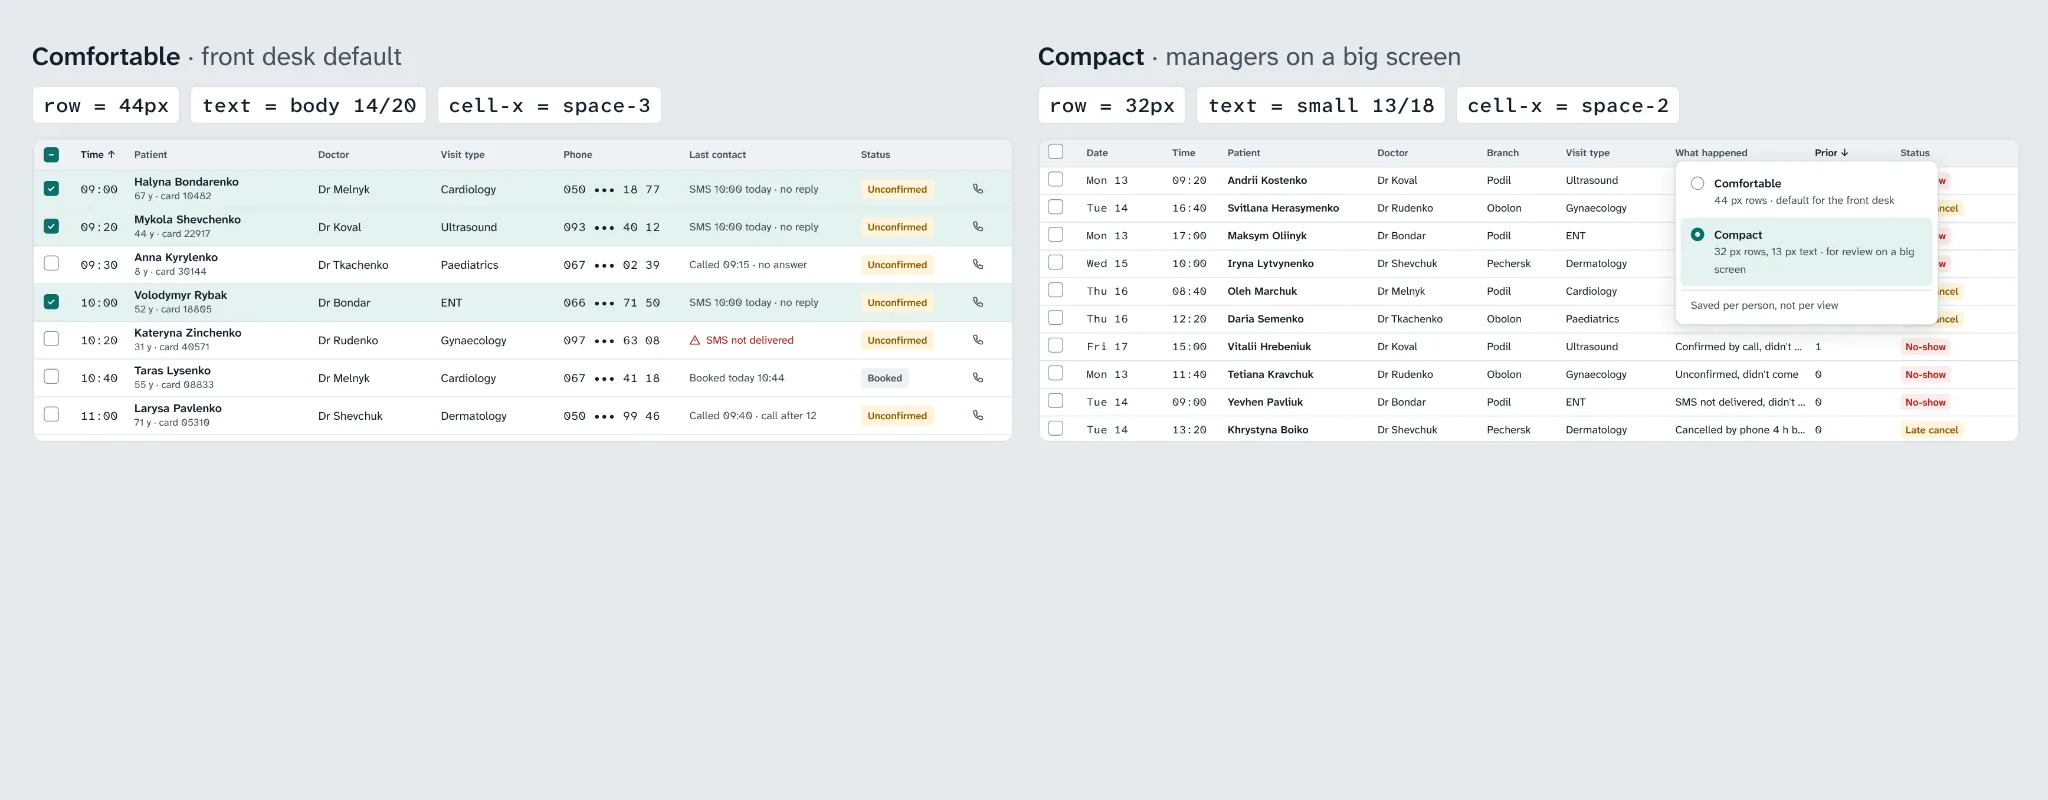
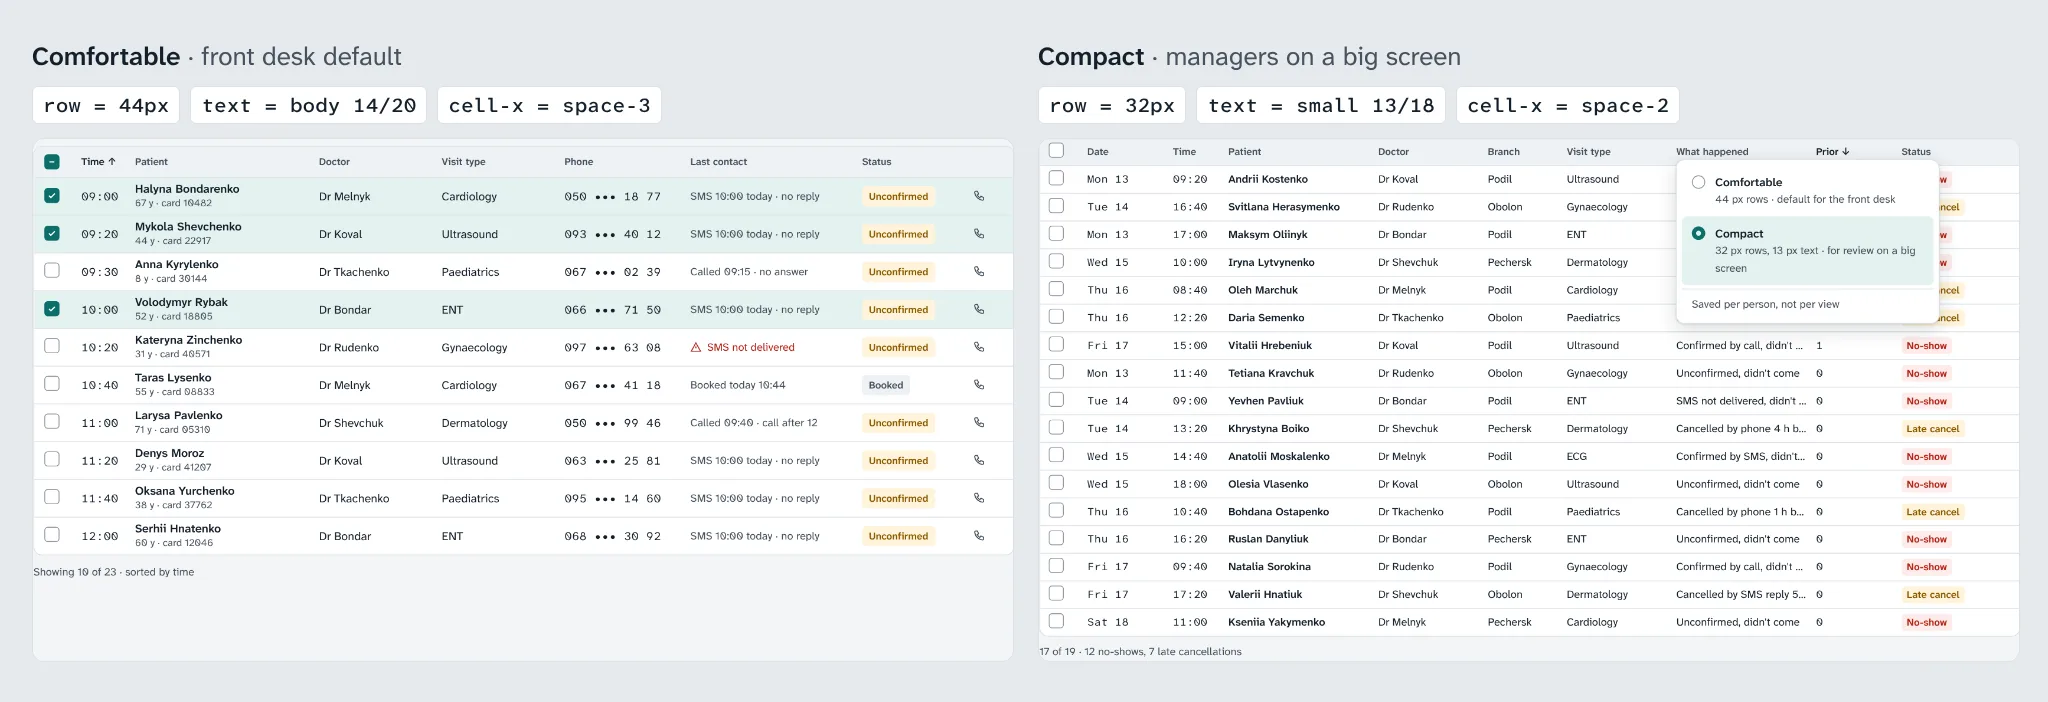
Fill the density figure: taller table crops, no empty bottom half
The Comfortable/Compact image cropped both tables to 300px, leaving the lower
half empty. Both now show the same 885px of the screen, so the row-count
difference is visible at equal height.

Claude-Session: https://claude.ai/code/session_01YKddJ5p35B66Kxe3GzFKNe

diff --git a/kabinet-clinic-front-desk.html b/kabinet-clinic-front-desk.html
@@ -91,7 +91,7 @@
 <p class="reveal">Five role templates replace a matrix of 60&nbsp;checkboxes, scoped by branch, with one exception switch for small branches. Diagnoses and doctor’s notes are never visible to the front desk.</p>
 <div class="media reveal"><figure class="fig"><img src="img/kabinet-clinic-front-desk/13-team-access.webp" alt="Team and access: a list of staff and the access panel for a new front-desk admin limited to one branch" width="2048" height="1280" loading="lazy" decoding="async"><figcaption>Role templates, scoped by branch</figcaption></figure></div>
 <p class="reveal">Row height, cell padding and text size are tokens with two modes: Comfortable for admins on a laptop, Compact for managers reviewing a week on a big screen. Every text pair passes WCAG&nbsp;AA, checked by a script.</p>
-<div class="media reveal"><figure class="fig"><img src="img/kabinet-clinic-front-desk/15-density.webp" alt="The same table in Comfortable and Compact density, with the token values for each" width="2048" height="800" loading="lazy" decoding="async"><figcaption>Two densities from one set of tokens</figcaption></figure></div>
+<div class="media reveal"><figure class="fig"><img src="img/kabinet-clinic-front-desk/15-density.webp" alt="The same table in Comfortable and Compact density, with the token values for each" width="2048" height="702" loading="lazy" decoding="async"><figcaption>Two densities from one set of tokens</figcaption></figure></div>
 <h2 class="reveal">States and edge cases</h2>
 <div class="media reveal"><figure class="fig"><img src="img/kabinet-clinic-front-desk/14-states.webp" alt="Four states: a new branch with no doctors, a slot just taken at another desk, an SMS not delivered, and doctors-only fields" width="2048" height="1440" loading="lazy" decoding="async"><figcaption>Each state names the cause and the next step</figcaption></figure></div>
 <h2 class="reveal">Result</h2>
